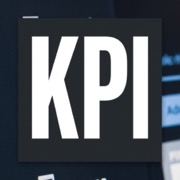
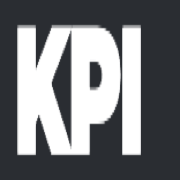
feat: 사용자 제공 디자인으로 파비콘 최종 적용 (디자인 및 폰트 일치)

diff --git a/index.html b/index.html
@@ -8,8 +8,8 @@
     <meta name="description" content="청교도 신학과 개혁주의 신념을 연구하고 성경적인 자료를 제공하는 한국 청교도 연구소입니다.">
     <link rel="stylesheet" href="style.css">
     <!-- Favicon -->
-    <link rel="icon" type="image/svg+xml" href="favicon.svg">
     <link rel="icon" type="image/x-icon" href="favicon.ico">
+    <link rel="icon" type="image/png" href="favicon.png">
     <link rel="apple-touch-icon" sizes="180x180" href="apple-touch-icon.png">
     <!-- Font Awesome for Search Icon -->
     <link rel="stylesheet" href="https://cdnjs.cloudflare.com/ajax/libs/font-awesome/6.0.0/css/all.min.css">
